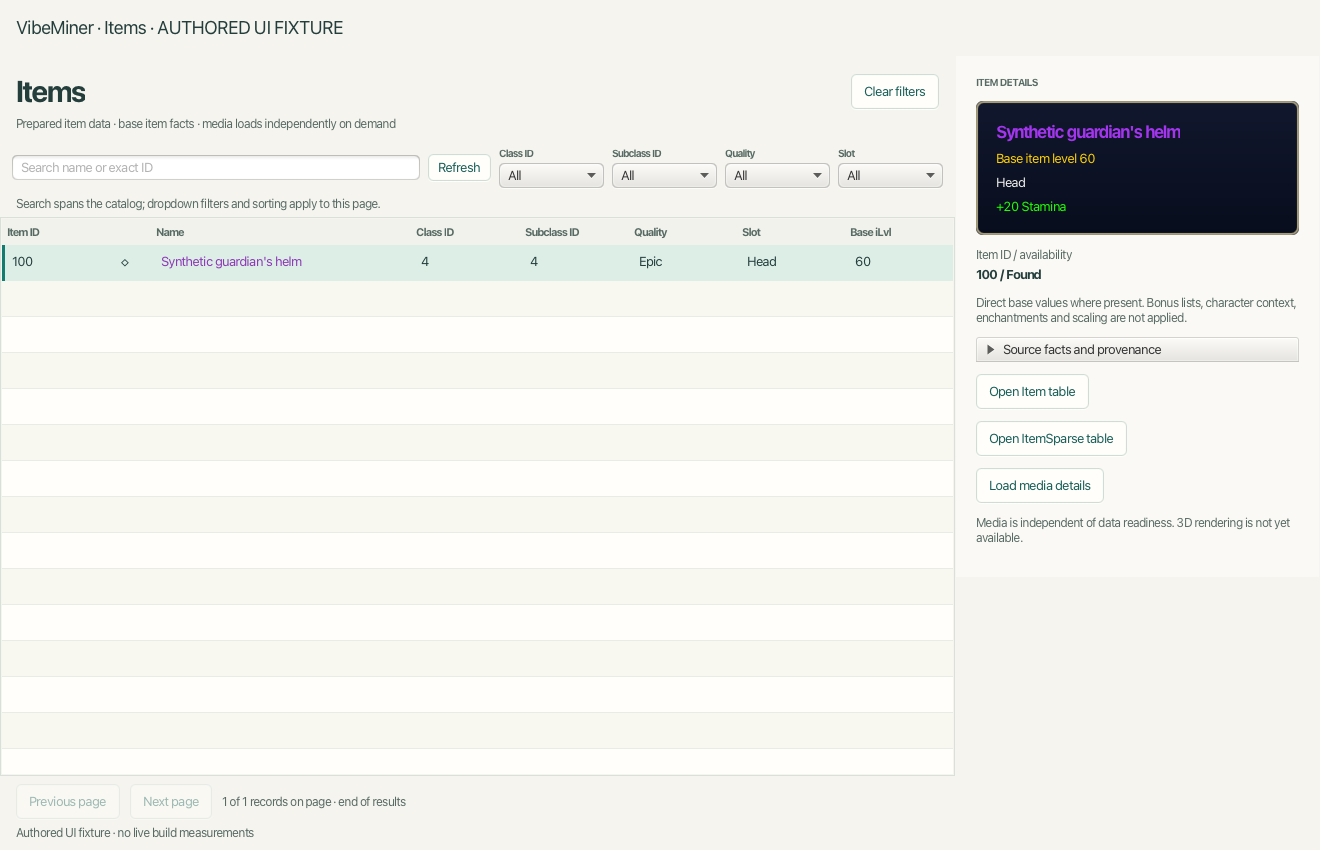
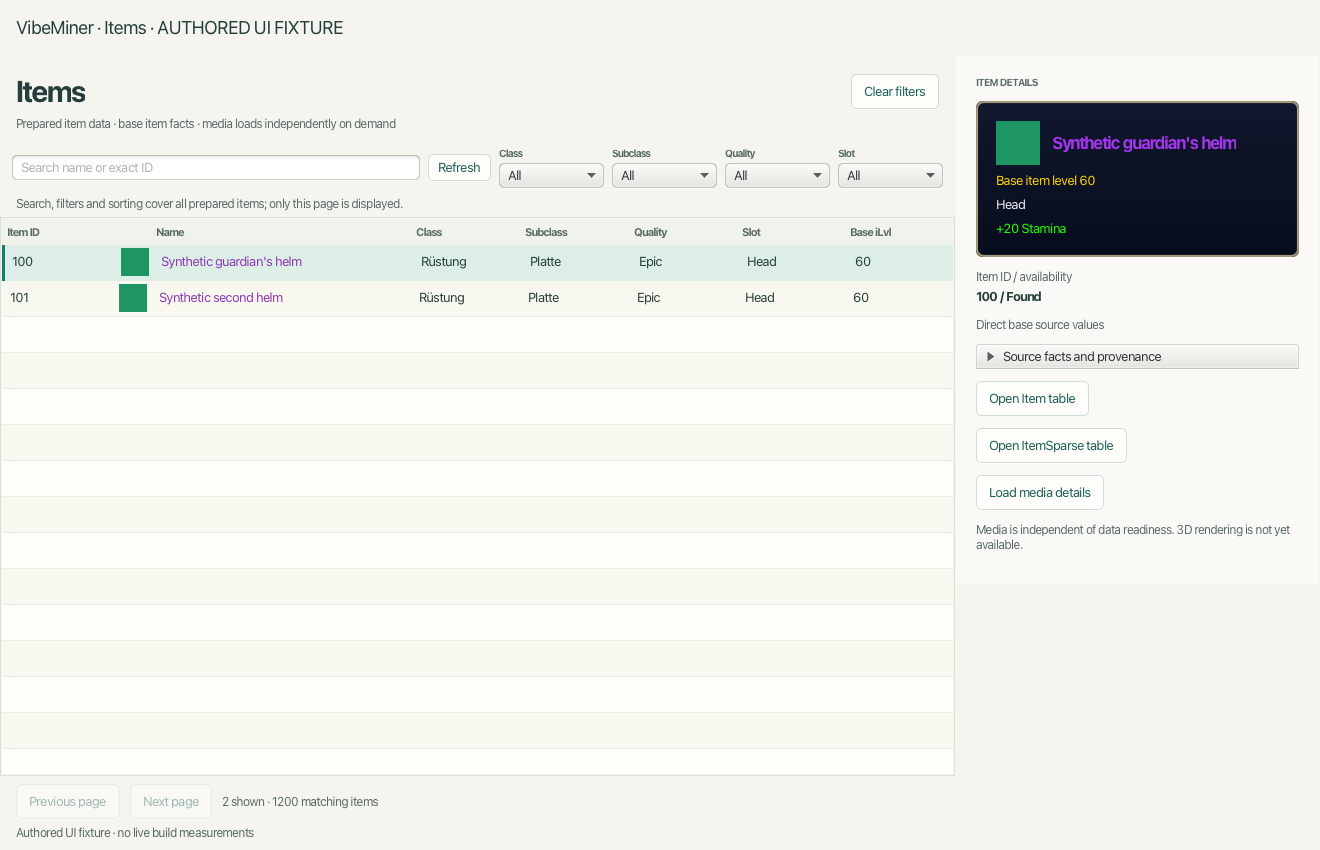
Document item query scope and validated preparation caches

diff --git a/HANDOFF.md b/HANDOFF.md
@@ -815,3 +815,26 @@ latest-only delivery and no arbitrary overall percentage. Layer 2 batch progress
 exists but is object-completion-only; live byte telemetry would require further
 L1/L2 work and retry/shared-transfer accounting. No progress API changes have been
 implemented. Initial Overview readiness is separate from full ROOT/index opening.
+
+## Current local browser and item work (2026-11-02)
+
+PR #55 connected the approved Files/Tables/Items/Creatures browsers to live data.
+PR #56 added durable prepared file catalogs and known-table outcome ledgers; all
+hosted checks passed. PR #56 landed with a merge commit (2c4c783), contrary to the
+requested FF/squash policy; use an actual local `merge --ff-only` plus push for the
+next integration.
+
+The item follow-up adds a shared bounded asynchronous derived SQLite connection,
+versioned local item projection and typed full-catalog search/filter/sort/paging
+with matching totals. Only page rows enter the GUI. Details/Layer 6 base attributes
+are a separate call; row icons load without selection. Class/subclass labels use
+selected-locale tables. Other grids still have their previous page-scoped dropdown
+and sort behavior. NPC universe/catalog and CDN-only talent UI remain deferred;
+Creature.db2 is not a complete NPC catalog.
+
+Base allocation stats now have a bounded backend policy using RandPropPoints and
+numeric GameTables. Missing inputs/scaling context remain explicit. This is not
+certified WoW Forever 1.60.1.70707 final-tooltip parity; see docs/item-attributes.md.
+Source facts/C# compatibility remain unchanged. Checks, real SQLite grid/reopen
+integration, authored JavaFX UI review and items/tables/generated C# interop passed.
+Native hands-on Windows certification/packaging remain deferred.

diff --git a/gui/handoff.md b/gui/handoff.md
@@ -294,3 +294,10 @@ Durable preparation caches now restore immutable file facts and completed table
 outcomes. Files does not perform a full mutable presence/name scan on initial
 catalog creation or reopen. Presence is shown as unassessed globally and checked
 per browser page. See README Durable reopen; no old status is trusted permanently.
+
+Items now uses typed SQLite queries across all prepared readable records, with
+matching totals and 100-row page results. Selection fetches richer details and
+Layer 6 base attribute calculation separately. Class/subclass display localized
+labels; visible row icons have bounded asynchronous requests independent of focus.
+Other grids retain page-scoped dropdown/sort behavior. Authored rendered UI tests
+now check request wiring and unselected icons; they do not certify live data parity.
